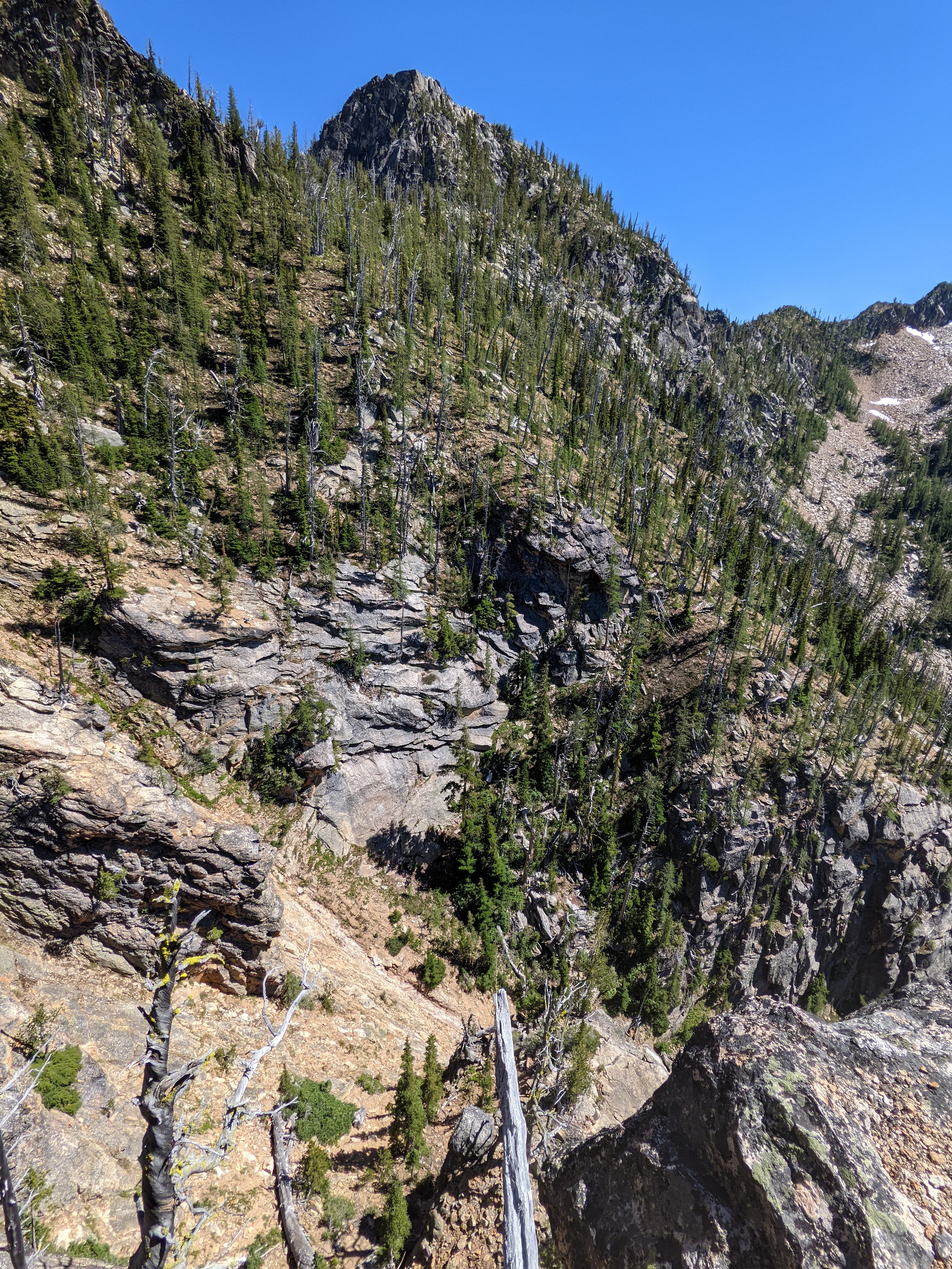
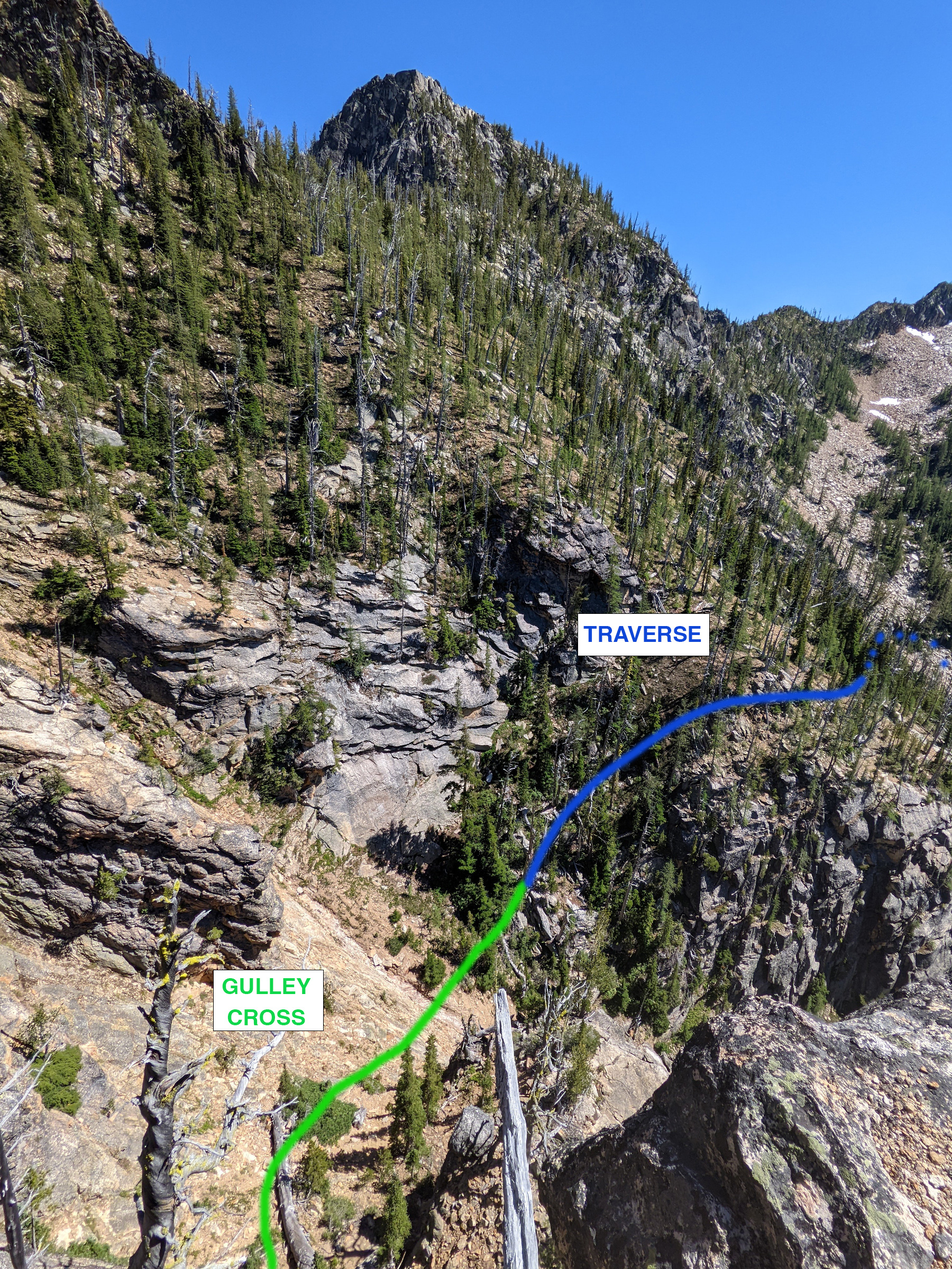
Publish easy getaway

diff --git a/source/_trips/2022-07-30-easy-getaway-wa-pass.md b/source/_trips/2022-07-30-easy-getaway-wa-pass.md
@@ -5,7 +5,7 @@ date: 2022-07-30
 state: Washington
 area: Washington Pass
 type: climbing
-published: false
+published: true
 popularity: 8
 categories:
   - climbing
@@ -18,85 +18,101 @@ image:
 cover: easy-getaway
 ---
 
-Met at Cutthroat Trailhead.
-Loud neighbors.
-Full sky of stars.
-Forgot Sleeping bag.
-Late start.
-Not enough food/water.
+Met at Cutthroat Trailhead and I got there, a little later than I originally
+planned, to a sky full of stars and a fairly prominent Milky Way.
+
+Not only did I manage to forget my sleeping bag, but I also didn't think about
+preparing for a cold start in the morning. Which lead to a lack of motivation
+for the alpine start we had planned on doing.
 
 ## Approach
 
-Started off easy enough.
-A little light bushwacking on a mostly open trail.
+The approach started off easy enough, a little light bushwacking on a mostly
+open trail. Then it turns left into steeper terrain, but for the most part you
+can follow open areas all the way to the top, with only small patches of dense
+alger.
 
 ![Easy Getaway Approach](/assets/images/trips/easy-getaway-approach.jpg "Easy Getaway Approach"){: .shadow-5.oversized}{: loading="lazy"} <small><i>Taking a moment to enjoy the surroundings.</i></small>
 
-Cut left and up and the steep bushwacking starts, small taste.
-Opens up and flattens out, optimism builds.
-Eventually changes to mostly skree and small talus, but play your cards right and you can keep that to a minimum.
-Use GPX.
-The stage is pretty obvious.
-Look for streaked block.
+The approach eventually changes to mostly skree and small talus, but if you
+play your cards right, you can keep that to a minimum. The downloadable GPX on
+Mountain Project was a great help and likely saved a ton of time and effort.
+
+The platform is pretty obvious. Look for streaked block.
 
 ## Climb
 
-### First pitch.
-
-Find start.
-
 ![Easy Getaway Route](/assets/images/trips/easy-getaway-route.jpg "Easy Getaway Route"){: .shadow-5.oversized}{: loading="lazy"} <small><i>Looking up at the route. The streaked block just to the left of the top of the dead tree in the center is the fifth pitch.</i></small>
 
-Tricky to protect, but best to just launch through.
+Finding the platform start was easy enough.
 
-### Second Pitch.
+### First pitch
 
-Dirty with a crappy fall zone.
+Up the right facing crack. The slab section was tricky to protect, so just
+ended up launching through it.
 
-Third Pitch.
-Follow the ledge to the larger overhang.
+Pulled the overlap and headed left to setup an anchor near the base of the next
+right facing corner.
 
-Forth Pitch.
-Heady pitch.
-Make sure to go all the way to the tree as the next pitch is wondery.
+### Second Pitch
 
-Fifth Pitch.
-Right variation is fairly straight forward if you don't overthink the traverse.
+This one was dirty with a crappy fall zone, otherwise it would be a nice pitch.
 
-Sixth Pitch.
-Offwidth is short and fairly secure.
-Keep the gear you want to use on your right side.
-Drop loop to grab bags from first tree.
-Fairly easy climbing to finish, could be hip belayed.
+### Third Pitch
+
+Follow the thin ledge to underneath the larger overhang.
+
+### Forth Pitch
+
+A heady pitch compared to the previous ones. Make sure to go all the way to the
+tree as the next pitch is wondery.
+
+### Fifth Pitch
+
+The right variation is fairly straight forward if you don't overthink the
+traverse. Stay low and work your way to the crack system on the right.
+
+### Sixth Pitch
+
+The chiminey is short and fairly secure. Keep the gear you want to use on your right side.
+
+Drop a loop from the first tree to the right of the crack to grab the bags.
+Fairly easy climbing to finish, we ended up just using a hip belay.
 
 ## Descent
 
-We found slings on the right around a large boulder.
-Backup the slings. They looked sun damaged so we added another strand.
-Rapped to tree, then to ground.
+We found sun damaged slings wrapped around a large boulder on the right.
+Given their condention we decided to back them up with an additional slings.
+
+We rapped to a tree below with more sun damaged slings that we backed up, then
+to the ground.
 
 ![Easy Getaway Rapell](/assets/images/trips/easy-getaway-rapell.jpg "Easy Getaway Rapell"){: .shadow-5.oversized}{: loading="lazy"} <small><i>Looking back at the rapell route we took.</i></small>
 
-Cross gulley.
-Traverse.
-Descend skree if you descend too early.
-Possible water refill.
-Crappy descent.
-Find the stage again if you left bags (not much of a difference).
+From there we crossed the gulley and started the traverse up a grassy ramp. I
+would try to resist the urge to descend from countouring too early, as you'll
+have to go through loose skree vs slightly more pleasant meadows.
+
+Bring a water filter as there is a possible water refill here, or you can wait
+until further down the descent where the creek gets a little larger.
+
+Maybe it's because it was a hot day, but this descent was worse than expected.
+It isn't too difficult to find the stage again if you left bags, and there
+isn't much additional elevation distance to do so.
 
 ![Easy Getaway Descent](/assets/images/trips/easy-getaway-descent.jpg "Easy Getaway Descent"){: .shadow-5.oversized}{: loading="lazy"} <small><i>Looking across from the top of the rapell towards the descent traverse.</i></small>
 
 
-More crappy decent.
-Bigger creek to dip feet in down low.
+Finding the optimal line on the way down proved to be more difficult, as we
+ended up charging through thick sections of brush versus taking the time to
+find a path that may or may not have ended up being a dead end. Bigger creek to
+dip feet in down low.
 
 ![Easy Getaway Creek](/assets/images/trips/easy-getaway-creek.jpg "Easy Getaway Creek"){: .shadow-5.oversized}{: loading="lazy"} <small><i>A much needed reprieve at the creek.</i></small>
 
 ## Thoughts
 
-It was a nice adventure climb.
-It was dirty.
-The descent sucks.
-Northish facing.
-
-
+All told, it was a nice adventure climb, it just would have been more enjoyable
+had we planned it being such an adventure. The fact it is Northish facing,
+gives you time to get most or all of the route done before the sun hits if you
+get an early start.
